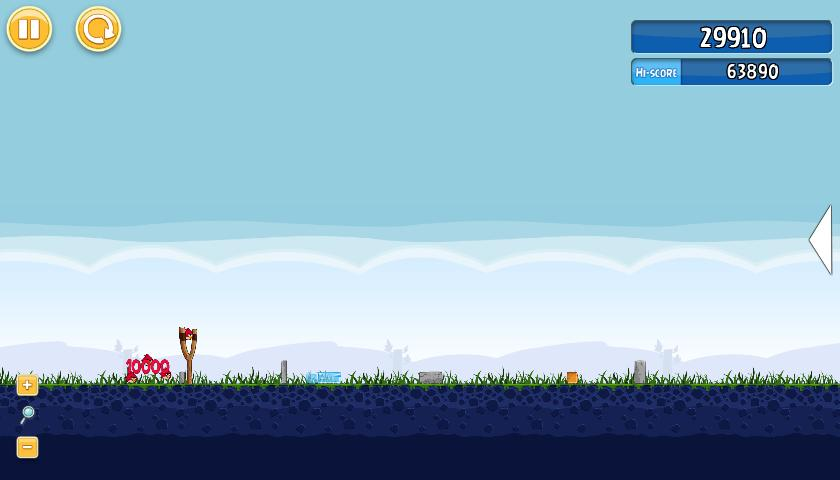
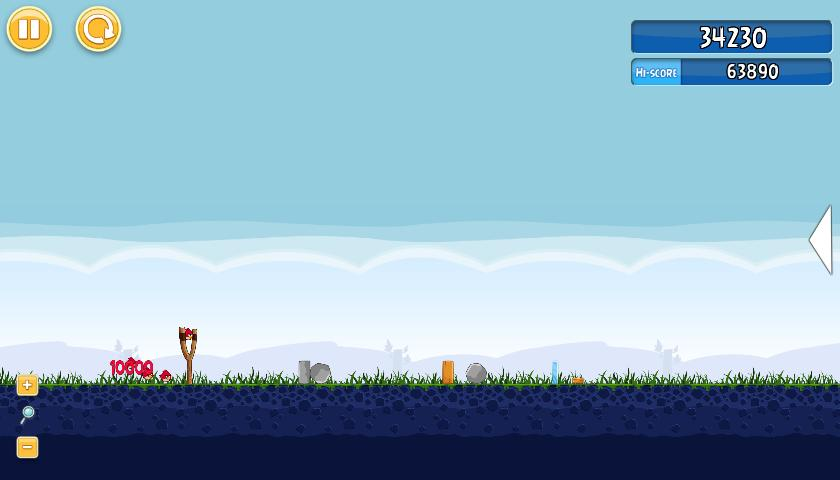
recreate levels

diff --git a/levelGenerator/src/DominoStructure.java b/levelGenerator/src/DominoStructure.java
@@ -20,8 +20,10 @@ public class DominoStructure {
         // extracts the height of the block (= value on the last char of the enum)
         int blockHeight = Integer.parseInt(Character.toString(randomBlock.charAt(randomBlock.length() - 1)));
 
-        // sets the distance between the three blocks randomly, but not further away than the block height
-        int distance = ThreadLocalRandom.current().nextInt(1, blockHeight + 1);
+        // sets the distance between the three blocks randomly, but not further away than (blockHeight - 1)
+        // nextInt doesn't go until maxvalue but stops one before
+        System.out.println(blockHeight);
+        int distance = ThreadLocalRandom.current().nextInt(1, blockHeight);
 
         ArrayList<JSONObject> dominoStructure = new ArrayList<JSONObject>();
 

diff --git a/levelGenerator/src/BasicLevel.java b/levelGenerator/src/BasicLevel.java
@@ -97,8 +97,9 @@ public class BasicLevel {
 			world.put("block_"+(i+1), createRandomJSONBlock());
 		}
 
-		ArrayList<JSONObject> dominoStructure = DominoStructure.createDominoStructure(ThreadLocalRandom.current().nextInt(14, 50 + 1));
+		ArrayList<JSONObject> dominoStructure = DominoStructure.createDominoStructure(ThreadLocalRandom.current().nextInt(14, 30 + 1));
 		for (int i = 0; i < dominoStructure.size(); i++){
+			System.out.println("domino: " + dominoStructure.get(i).toString());
 			world.put("block_" + (blocks - (i)), dominoStructure.get(i));
 			System.out.println(dominoStructure.get(i).toString() + " " + (blocks-(i)));
 		}
